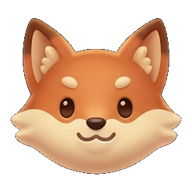
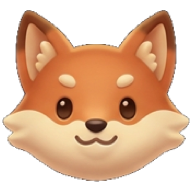
fix: clean tip alpha artifacts and align progressive discovery fill bounds

diff --git a/lib/views/journey_rewards.dart b/lib/views/journey_rewards.dart
@@ -9,6 +9,7 @@ import '../model/economy.dart';
 import '../model/game_state.dart';
 import '../model/journey.dart';
 import '../model/user_preferences.dart';
+import '../ui/art/game_assets.dart';
 import '../ui/game_art.dart';
 import '../ui/game_ui.dart';
 import 'components/puzzle_board.dart';
@@ -488,13 +489,16 @@ class ProgressiveDiscoveryArt extends StatelessWidget {
               .firstOrNull
         : null;
     final shadowColor = Color.lerp(palette.tile, palette.ink, .28)!;
+    final (topFrac, bottomFrac) = tip != null
+        ? (tipVisibleVerticalBounds[tip] ?? (0.02, 0.98))
+        : (0.02, 0.98);
     final Widget revealed = tip != null
-        ? TipArtwork(tip: tip, palette: palette)
+        ? TipArtwork(tip: tip, palette: palette, scale: .5)
         : theme != null
         ? LevelOneBoardPreview(palette: BoardPalette.palettes[theme]!)
         : GameArt(ArtKind.coinStack3, palette: palette);
     final Widget silhouette = tip != null
-        ? TipArtwork(tip: tip, palette: palette, concealed: true)
+        ? TipArtwork(tip: tip, palette: palette, scale: .5, concealed: true)
         : ColorFiltered(
             colorFilter: ColorFilter.mode(shadowColor, BlendMode.srcATop),
             child: revealed,
@@ -524,7 +528,11 @@ class ProgressiveDiscoveryArt extends StatelessWidget {
             Padding(
               padding: EdgeInsets.all(size * .08),
               child: ClipRect(
-                clipper: _BottomUpClipper(clamped),
+                clipper: _BottomUpClipper(
+                  clamped,
+                  topFraction: topFrac,
+                  bottomFraction: bottomFrac,
+                ),
                 child: revealed,
               ),
             ),
@@ -535,15 +543,29 @@ class ProgressiveDiscoveryArt extends StatelessWidget {
 }
 
 class _BottomUpClipper extends CustomClipper<Rect> {
-  const _BottomUpClipper(this.fraction);
+  const _BottomUpClipper(
+    this.fraction, {
+    this.topFraction = 0.0,
+    this.bottomFraction = 1.0,
+  });
   final double fraction;
+  final double topFraction;
+  final double bottomFraction;
 
   @override
-  Rect getClip(Size size) =>
-      Rect.fromLTRB(0, size.height * (1.0 - fraction), size.width, size.height);
+  Rect getClip(Size size) {
+    if (fraction <= 0) return Rect.zero;
+    if (fraction >= 1) return Rect.fromLTWH(0, 0, size.width, size.height);
+    final visibleHeight = (bottomFraction - topFraction) * size.height;
+    final revealTop = bottomFraction * size.height - visibleHeight * fraction;
+    return Rect.fromLTRB(0, revealTop, size.width, size.height);
+  }
 
   @override
-  bool shouldReclip(_BottomUpClipper old) => old.fraction != fraction;
+  bool shouldReclip(_BottomUpClipper old) =>
+      old.fraction != fraction ||
+      old.topFraction != topFraction ||
+      old.bottomFraction != bottomFraction;
 }
 
 class DiscoveryRow extends StatefulWidget {
@@ -760,37 +782,47 @@ class CollectionsView extends StatelessWidget {
                 '$owned of ${PathTip.values.length + PathwiseTheme.values.length} collected',
                 style: Theme.of(context).textTheme.titleLarge,
               ),
-              const SizedBox(height: 10),
-              Row(
-                children: [
-                  ProgressiveDiscoveryArt(
-                    item: model.upcomingDiscoveryItem,
-                    palette: palette,
-                    progress: model.discoveryPercent / 100,
-                    size: 56,
-                  ),
-                  const SizedBox(width: 12),
-                  Expanded(
-                    child: Column(
-                      crossAxisAlignment: CrossAxisAlignment.start,
-                      children: [
-                        Text(
-                          'Next discovery · ${model.discoveryPercent}%',
-                          style: TextStyle(
-                            color: palette.ink,
-                            fontWeight: FontWeight.w700,
-                          ),
-                        ),
-                        const SizedBox(height: 6),
-                        LinearProgressIndicator(
-                          value: model.discoveryPercent / 100,
-                          backgroundColor: palette.tile,
-                          color: palette.route,
-                        ),
-                      ],
+              const SizedBox(height: 12),
+              GameCard(
+                padding: const EdgeInsets.symmetric(
+                  horizontal: 16,
+                  vertical: 14,
+                ),
+                child: Row(
+                  children: [
+                    ProgressiveDiscoveryArt(
+                      item: model.upcomingDiscoveryItem,
+                      palette: palette,
+                      progress: model.discoveryPercent / 100,
+                      size: 108,
                     ),
-                  ),
-                ],
+                    const SizedBox(width: 16),
+                    Expanded(
+                      child: Column(
+                        crossAxisAlignment: CrossAxisAlignment.start,
+                        children: [
+                          Text(
+                            'Next discovery',
+                            style: TextStyle(
+                              color: palette.ink,
+                              fontWeight: FontWeight.w800,
+                              fontSize: 16,
+                            ),
+                          ),
+                          const SizedBox(height: 4),
+                          Text(
+                            '${model.discoveryPercent}% revealed',
+                            style: TextStyle(
+                              color: palette.route,
+                              fontWeight: FontWeight.w700,
+                              fontSize: 14,
+                            ),
+                          ),
+                        ],
+                      ),
+                    ),
+                  ],
+                ),
               ),
               if (pending.isNotEmpty)
                 ExpansionTile(

diff --git a/test/stabilization_regression_test.dart b/test/stabilization_regression_test.dart
@@ -1,9 +1,14 @@
 import 'dart:convert';
+import 'dart:io';
+import 'dart:ui' as ui;
 
 import 'package:flutter_test/flutter_test.dart';
 import 'package:material_ui/material_ui.dart';
+import 'package:provider/provider.dart';
 
 import '../lib/logic/ad_frequency.dart';
+import '../lib/logic/ad_service.dart';
+import '../lib/logic/billing_service.dart';
 import '../lib/logic/connectivity_service.dart';
 import '../lib/logic/game_controller.dart';
 import '../lib/logic/game_state_storage.dart';
@@ -212,25 +217,109 @@ void main() {
     testWidgets('ProgressiveDiscoveryArt renders at every 10% increment', (
       tester,
     ) async {
-      final palette = BoardPalette.palettes[PathwiseTheme.field]!;
-      for (final pct in [0, 10, 30, 50, 90, 100]) {
-        await tester.pumpWidget(
-          MaterialApp(
-            home: Scaffold(
-              body: Center(
-                child: ProgressiveDiscoveryArt(
-                  item: 'tip/cat',
-                  palette: palette,
-                  progress: pct / 100,
-                  size: 84,
+      final light = BoardPalette.palettes[PathwiseTheme.field]!;
+      final dark = BoardPalette.palettes[PathwiseTheme.blackwater]!;
+      for (final palette in [light, dark]) {
+        for (final tip in PathTip.values) {
+          if (tip == PathTip.classic) continue;
+          for (final pct in [0, 10, 20, 50, 90, 100]) {
+            await tester.pumpWidget(
+              MaterialApp(
+                home: Scaffold(
+                  body: Center(
+                    child: ProgressiveDiscoveryArt(
+                      item: 'tip/${tip.name}',
+                      palette: palette,
+                      progress: pct / 100,
+                      size: 108,
+                    ),
+                  ),
                 ),
               ),
+            );
+            expect(
+              tester.takeException(),
+              isNull,
+              reason: 'failed for ${tip.name} at $pct%',
+            );
+          }
+        }
+      }
+    });
+
+    testWidgets(
+      'CollectionsView renders prominent ProgressiveDiscoveryArt at 20% without progress bar',
+      (tester) async {
+        final storage = _MemoryStorage();
+        final model = AppModel(
+          storage: storage,
+          snapshot: const {
+            'journey': {'clears': 2, 'upcoming': 'tip/arrow'},
+          },
+          connectivity: ConnectivityService(probe: () async => true),
+          today: () => DateTime(2026, 11, 25),
+          bootTime: () => (boot: 1, milliseconds: 1000),
+        );
+        final ads = AdService();
+        final billing = BillingService(persist: (_) async => true);
+        await tester.pumpWidget(
+          MultiProvider(
+            providers: [
+              ChangeNotifierProvider<AppModel>.value(value: model),
+              ChangeNotifierProvider<AdService>.value(value: ads),
+              ChangeNotifierProvider<BillingService>.value(value: billing),
+            ],
+            child: MaterialApp(
+              theme: BoardPalette.palettes[PathwiseTheme.blackwater]!.theme,
+              home: const CollectionsView(),
             ),
           ),
         );
-        expect(tester.takeException(), isNull, reason: 'failed at $pct%');
-      }
-    });
+        expect(find.byType(ProgressiveDiscoveryArt), findsOneWidget);
+        expect(find.text('20% revealed'), findsOneWidget);
+        expect(find.byType(LinearProgressIndicator), findsNothing);
+        await tester.pumpWidget(const SizedBox.shrink());
+        model.dispose();
+        ads.dispose();
+        billing.dispose();
+      },
+    );
+
+    test(
+      'all 20 tip PNGs have zero residual alpha in outer 2px border',
+      () async {
+        final dir = Directory('assets/art/tips');
+        final files = dir
+            .listSync()
+            .whereType<File>()
+            .where((f) => f.path.endsWith('.png'))
+            .toList();
+        expect(files.length, 20);
+        for (final file in files) {
+          final bytes = await file.readAsBytes();
+          final codec = await ui.instantiateImageCodec(bytes);
+          final frame = await codec.getNextFrame();
+          final img = frame.image;
+          final raw = (await img.toByteData(
+            format: ui.ImageByteFormat.rawRgba,
+          ))!;
+          for (var y = 0; y < img.height; y++) {
+            for (var x = 0; x < img.width; x++) {
+              if (x < 2 || x >= img.width - 2 || y < 2 || y >= img.height - 2) {
+                final alpha = raw.getUint8((y * img.width + x) * 4 + 3);
+                expect(
+                  alpha,
+                  0,
+                  reason: '${file.path} has residual alpha $alpha at ($x, $y)',
+                );
+              }
+            }
+          }
+          img.dispose();
+          codec.dispose();
+        }
+      },
+    );
   });
 
   group('P1 interstitial frequency', () {

diff --git a/lib/ui/art/game_assets.dart b/lib/ui/art/game_assets.dart
@@ -48,6 +48,31 @@ String tipAssetPath(PathTip tip) => tip == PathTip.classic
     ? 'assets/art/tips/robot.png'
     : 'assets/art/tips/${tip.name}.png';
 
+/// Normalized visible vertical bounds `(top, bottom)` inside each 192x192 tip
+/// PNG (excluding transparent padding) so bottom-to-top discovery reveals map
+/// directly to the visible collectible height.
+const tipVisibleVerticalBounds = <PathTip, (double, double)>{
+  PathTip.arrow: (0.047, 0.953),
+  PathTip.bee: (0.010, 0.990),
+  PathTip.cat: (0.104, 0.896),
+  PathTip.crystal: (0.010, 0.990),
+  PathTip.dog: (0.135, 0.865),
+  PathTip.dragon: (0.042, 0.958),
+  PathTip.flame: (0.010, 0.990),
+  PathTip.fox: (0.052, 0.948),
+  PathTip.frog: (0.047, 0.953),
+  PathTip.ghost: (0.010, 0.990),
+  PathTip.panda: (0.073, 0.927),
+  PathTip.penguin: (0.036, 0.964),
+  PathTip.phoenix: (0.010, 0.990),
+  PathTip.rabbit: (0.010, 0.990),
+  PathTip.robot: (0.057, 0.943),
+  PathTip.rocket: (0.010, 0.990),
+  PathTip.star: (0.010, 0.990),
+  PathTip.turtle: (0.010, 0.990),
+  PathTip.ufo: (0.083, 0.917),
+};
+
 /// Asynchronous decoded [ui.Image] cache for high-frequency [CustomPainter]s
 /// such as the live gameplay board tip layer.
 final class GameAssetCache extends ChangeNotifier {
